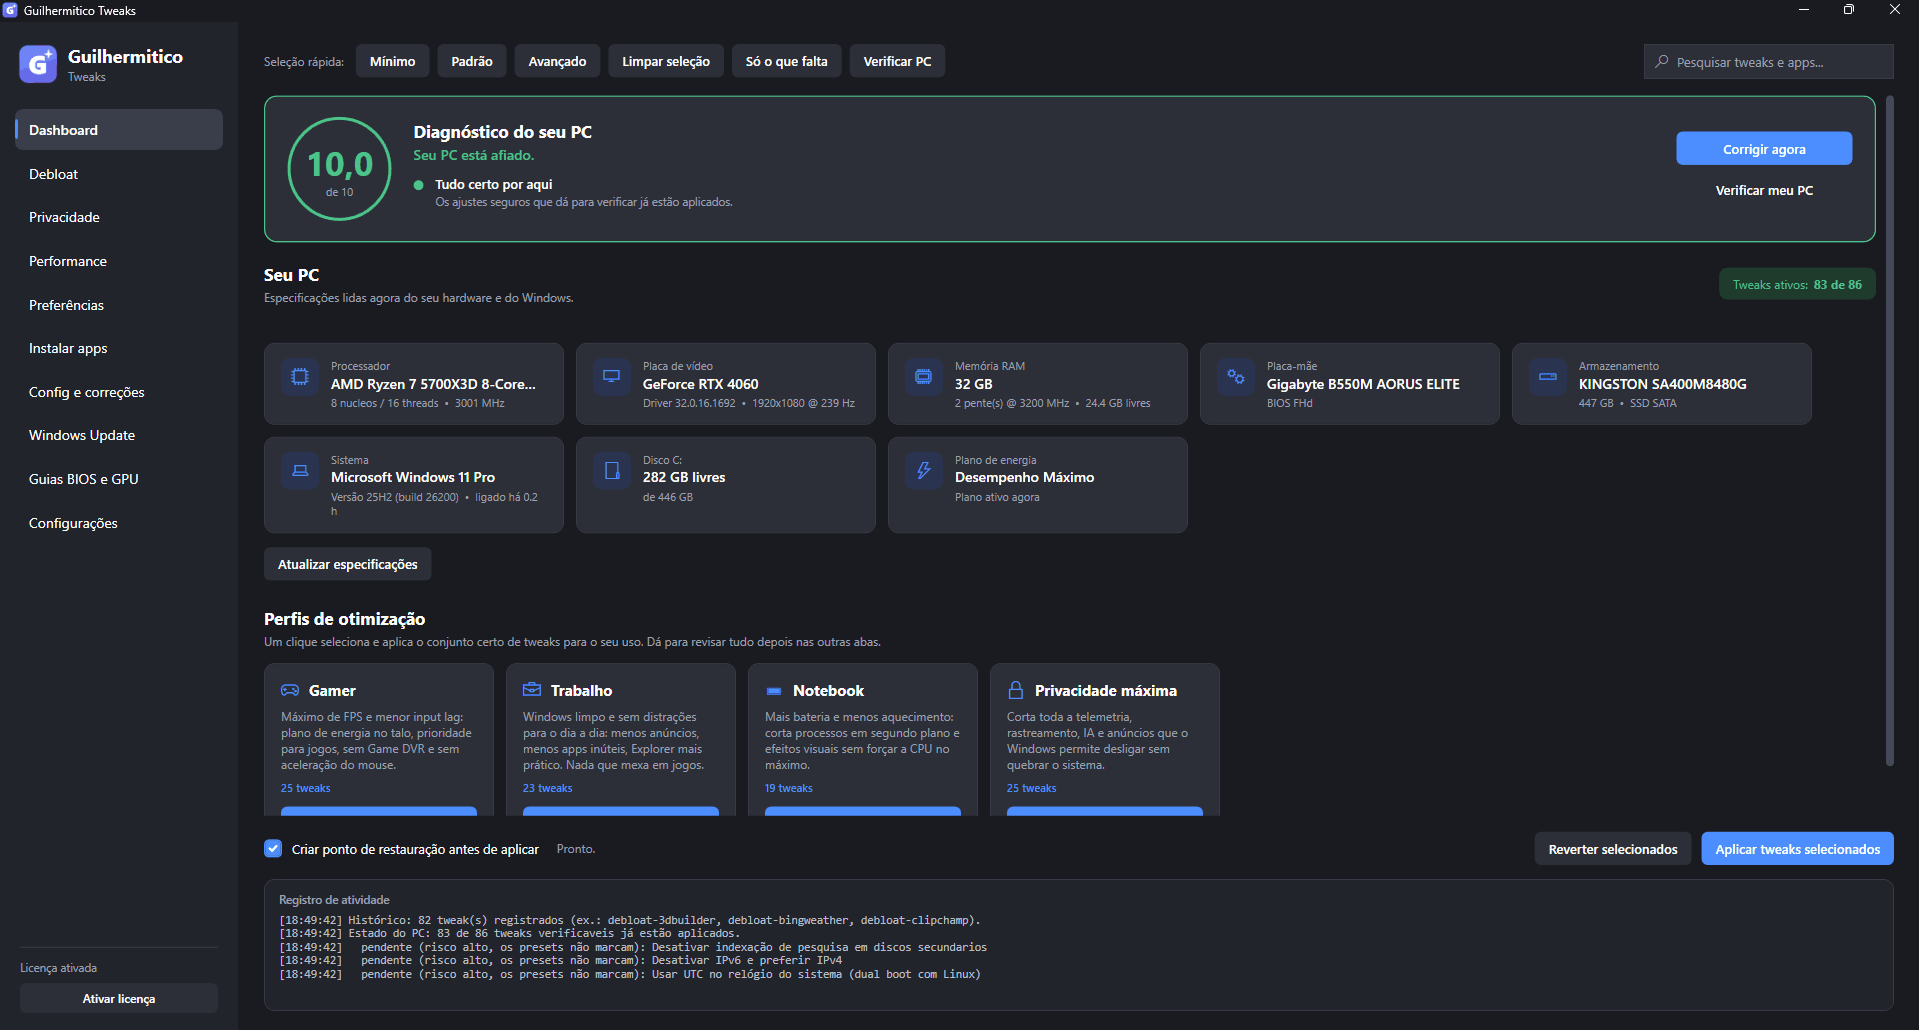
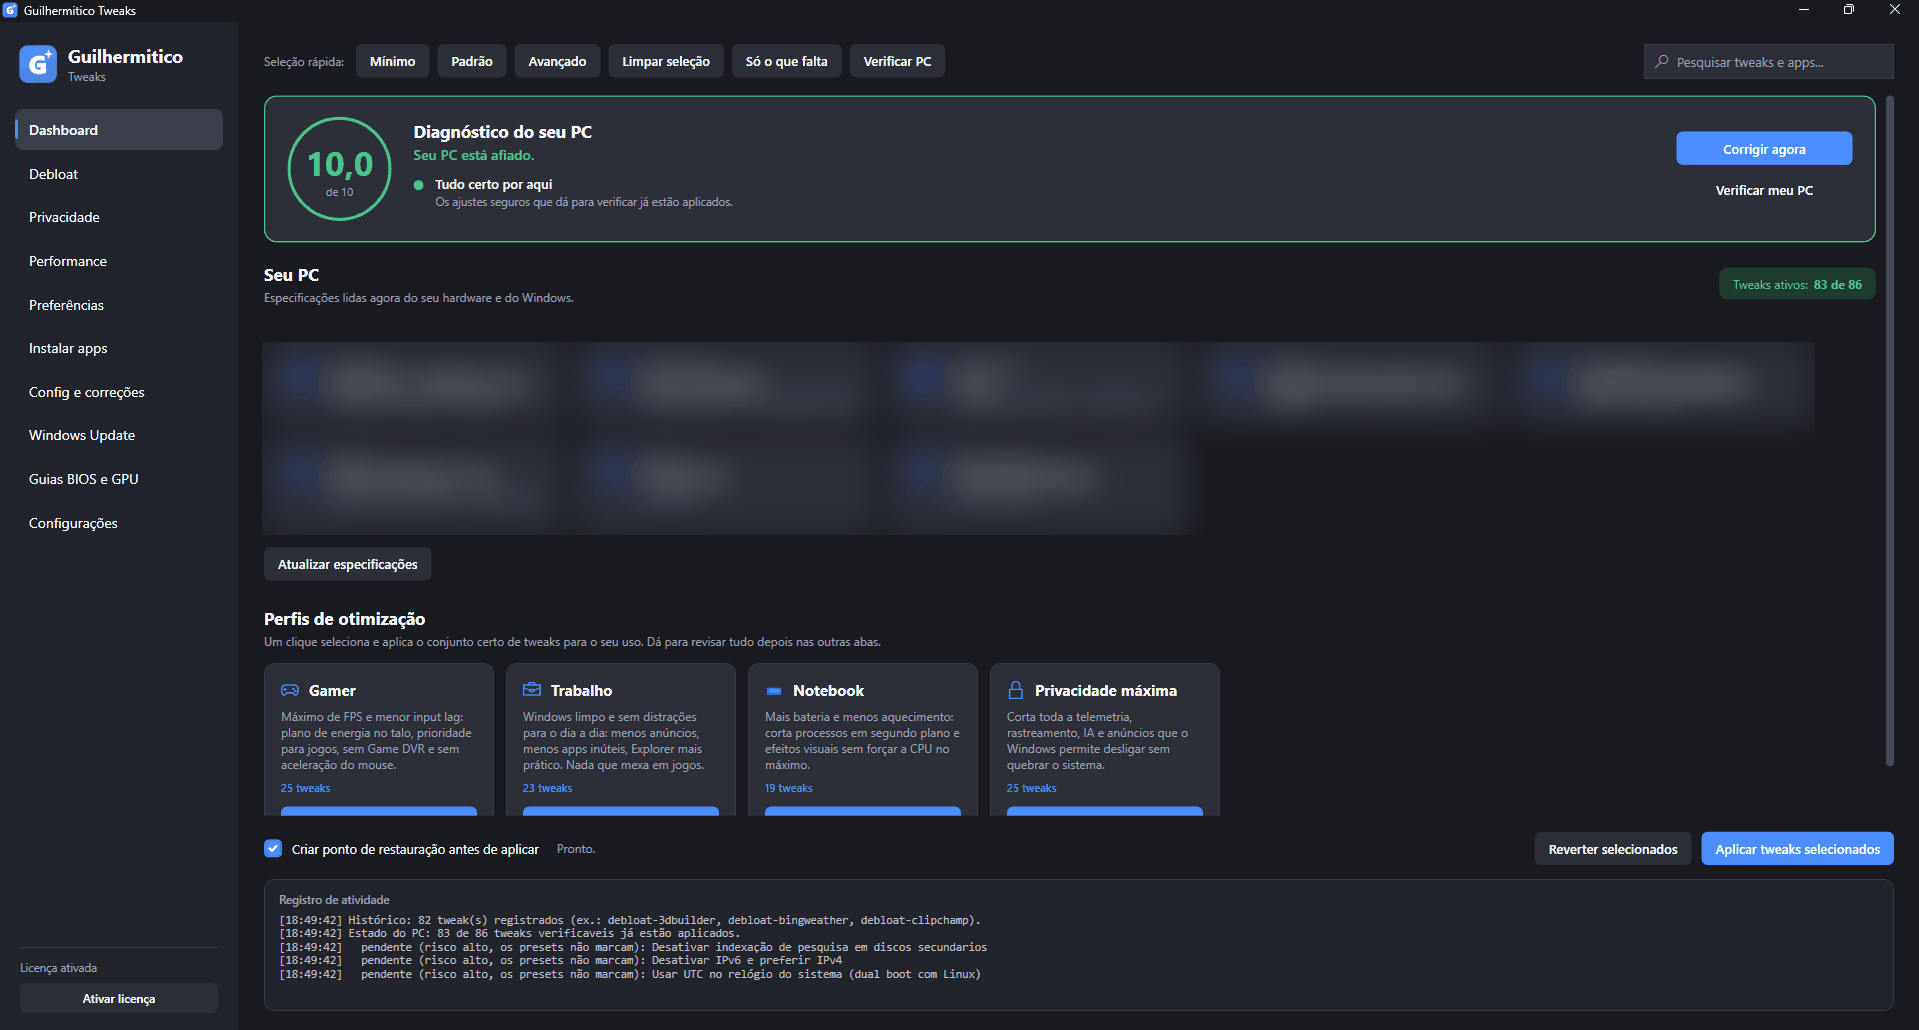
Desfoca specs do dashboard e destaca botao do produto

diff --git a/index.html b/index.html
@@ -147,7 +147,7 @@ footer{padding:32px 0;text-align:center;color:var(--muted);font-size:.9rem;borde
   <p class="sub reveal">Alguns trabalhos que mostram como eu transformo ideias em produtos.</p>
   <div class="grid">
     <div class="card proj reveal" style="border-color:var(--accent);grid-column:1/-1"><div class="icon">⭐</div><h3>Bot de WhatsApp para Clínica <small style="color:var(--accent)">· projeto real, hoje arquivado</small></h3><p>Sistema completo para clínica de fisioterapia, do levantamento de requisitos à operação:</p><ul style="color:var(--muted);font-size:.92rem;margin:10px 0 0 18px"><li>Fichas de avaliação, laudos e relatórios gerados em PDF e DOCX</li><li>Bot de WhatsApp com IA para triagem e agendamentos</li><li>Login seguro, monitoramento de erros e deploy contínuo</li><li>Mais de 1.400 testes automatizados</li></ul><div class="chips"><span>Node.js</span><span>Express</span><span>PostgreSQL</span><span>Redis</span><span>OpenAI</span><span>Evolution API</span><span>Sentry</span><span>Railway</span></div><div style="display:grid;grid-template-columns:repeat(auto-fit,minmax(300px,1fr));gap:16px;margin:18px 0 6px"><a href="img/clinica-dashboard.jpg" target="_blank" rel="noopener"><img src="img/clinica-dashboard.jpg" alt="Painel Hoje: atendimentos do dia com presença e atalhos (dados fictícios)" loading="lazy" style="width:100%;height:auto;border-radius:10px;border:1px solid var(--border,rgba(128,128,128,.25))"></a><a href="img/clinica-agenda.jpg" target="_blank" rel="noopener"><img src="img/clinica-agenda.jpg" alt="Agenda com filtros por status, período e profissional (dados fictícios)" loading="lazy" style="width:100%;height:auto;border-radius:10px;border:1px solid var(--border,rgba(128,128,128,.25))"></a></div><small style="color:var(--muted)">Capturas do painel com dados fictícios.</small><div class="acts"><a href="https://github.com/guirodriguesxz/clinica-whatsapp-bot" target="_blank" rel="noopener">Código</a></div></div>
-    <div class="card proj reveal" style="grid-column:1/-1"><div class="icon">⚡</div><h3>Guilhermitico Tweaks <small style="color:var(--accent)">· produto próprio</small></h3><p>Otimizador e debloat para Windows, com ponto de restauração automático, catálogo de ajustes por categoria e instalação de apps. Vendido com licença e ativação online.</p><div class="chips"><span>C#</span><span>.NET 8</span><span>WPF</span><span>PowerShell</span></div><div style="display:grid;grid-template-columns:repeat(auto-fit,minmax(300px,1fr));gap:16px;margin:18px 0 6px"><a href="img/tweaks-dashboard.png" target="_blank" rel="noopener"><img src="img/tweaks-dashboard.png" alt="Dashboard com diagnóstico do PC, especificações e perfis de otimização" loading="lazy" style="width:100%;height:auto;border-radius:10px;border:1px solid var(--border,rgba(128,128,128,.25))"></a><a href="img/tweaks-debloat.png" target="_blank" rel="noopener"><img src="img/tweaks-debloat.png" alt="Aba Debloat com a lista de apps pré-instalados que podem ser removidos" loading="lazy" style="width:100%;height:auto;border-radius:10px;border:1px solid var(--border,rgba(128,128,128,.25))"></a><a href="img/tweaks-privacidade.png" target="_blank" rel="noopener"><img src="img/tweaks-privacidade.png" alt="Aba Privacidade com os ajustes de telemetria e rastreamento" loading="lazy" style="width:100%;height:auto;border-radius:10px;border:1px solid var(--border,rgba(128,128,128,.25))"></a><a href="img/tweaks-desfazer.png" target="_blank" rel="noopener"><img src="img/tweaks-desfazer.png" alt="Configurações com desfazer tudo, backup da seleção e atualizações" loading="lazy" style="width:100%;height:auto;border-radius:10px;border:1px solid var(--border,rgba(128,128,128,.25))"></a></div><div class="acts"><a href="https://guirodriguesxz.github.io/guilhermitico-tweaks/" target="_blank" rel="noopener">Ver online ↗</a></div></div>
+    <div class="card proj reveal" style="grid-column:1/-1"><div class="icon">⚡</div><h3>Guilhermitico Tweaks <small style="color:var(--accent)">· produto próprio</small></h3><p>Otimizador e debloat para Windows, com ponto de restauração automático, catálogo de ajustes por categoria e instalação de apps. Vendido com licença e ativação online.</p><div class="chips"><span>C#</span><span>.NET 8</span><span>WPF</span><span>PowerShell</span></div><div style="display:grid;grid-template-columns:repeat(auto-fit,minmax(300px,1fr));gap:16px;margin:18px 0 6px"><a href="img/tweaks-dashboard.png" target="_blank" rel="noopener"><img src="img/tweaks-dashboard.png" alt="Dashboard com diagnóstico do PC, especificações e perfis de otimização" loading="lazy" style="width:100%;height:auto;border-radius:10px;border:1px solid var(--border,rgba(128,128,128,.25))"></a><a href="img/tweaks-debloat.png" target="_blank" rel="noopener"><img src="img/tweaks-debloat.png" alt="Aba Debloat com a lista de apps pré-instalados que podem ser removidos" loading="lazy" style="width:100%;height:auto;border-radius:10px;border:1px solid var(--border,rgba(128,128,128,.25))"></a><a href="img/tweaks-privacidade.png" target="_blank" rel="noopener"><img src="img/tweaks-privacidade.png" alt="Aba Privacidade com os ajustes de telemetria e rastreamento" loading="lazy" style="width:100%;height:auto;border-radius:10px;border:1px solid var(--border,rgba(128,128,128,.25))"></a><a href="img/tweaks-desfazer.png" target="_blank" rel="noopener"><img src="img/tweaks-desfazer.png" alt="Configurações com desfazer tudo, backup da seleção e atualizações" loading="lazy" style="width:100%;height:auto;border-radius:10px;border:1px solid var(--border,rgba(128,128,128,.25))"></a></div><div class="acts"><a href="https://guirodriguesxz.github.io/guilhermitico-tweaks/" target="_blank" rel="noopener" style="background:var(--accent);color:#fff;border-color:var(--accent)">Conhecer e comprar ↗</a></div></div>
     <div class="card proj reveal"><div class="icon">🛒</div><h3>E-commerce em Microsserviços</h3><p>Arquitetura distribuída com orquestração Saga via Kafka, outbox transacional, idempotência e compensação automática de falhas.</p><div class="chips"><span>Java</span><span>Kafka</span><span>Microsserviços</span></div></div>
     <div class="card proj reveal"><div class="icon">🏥</div><h3>PhysioManage</h3><p>SaaS multi-tenant de gestão para clínicas de fisioterapia: pacientes, agenda e atendimentos.</p><div class="chips"><span>Spring Boot 3</span><span>React 19</span><span>TypeScript</span><span>Tailwind</span></div><div class="acts"><a href="https://physiomanage-web.vercel.app" target="_blank" rel="noopener">Ver online ↗</a><a href="https://github.com/guirodriguesxz/physiomanage" target="_blank" rel="noopener">Código</a></div></div>
     <div class="card proj reveal"><div class="icon">🏋</div><h3>FaceGym</h3><p>Aplicação web para academias, com back-end em Java e front-end publicado.</p><div class="chips"><span>Java</span><span>Web</span></div><div class="acts"><a href="https://facegym-web.vercel.app" target="_blank" rel="noopener">Ver online ↗</a><a href="https://github.com/guirodriguesxz/facegym" target="_blank" rel="noopener">Código</a></div></div>
